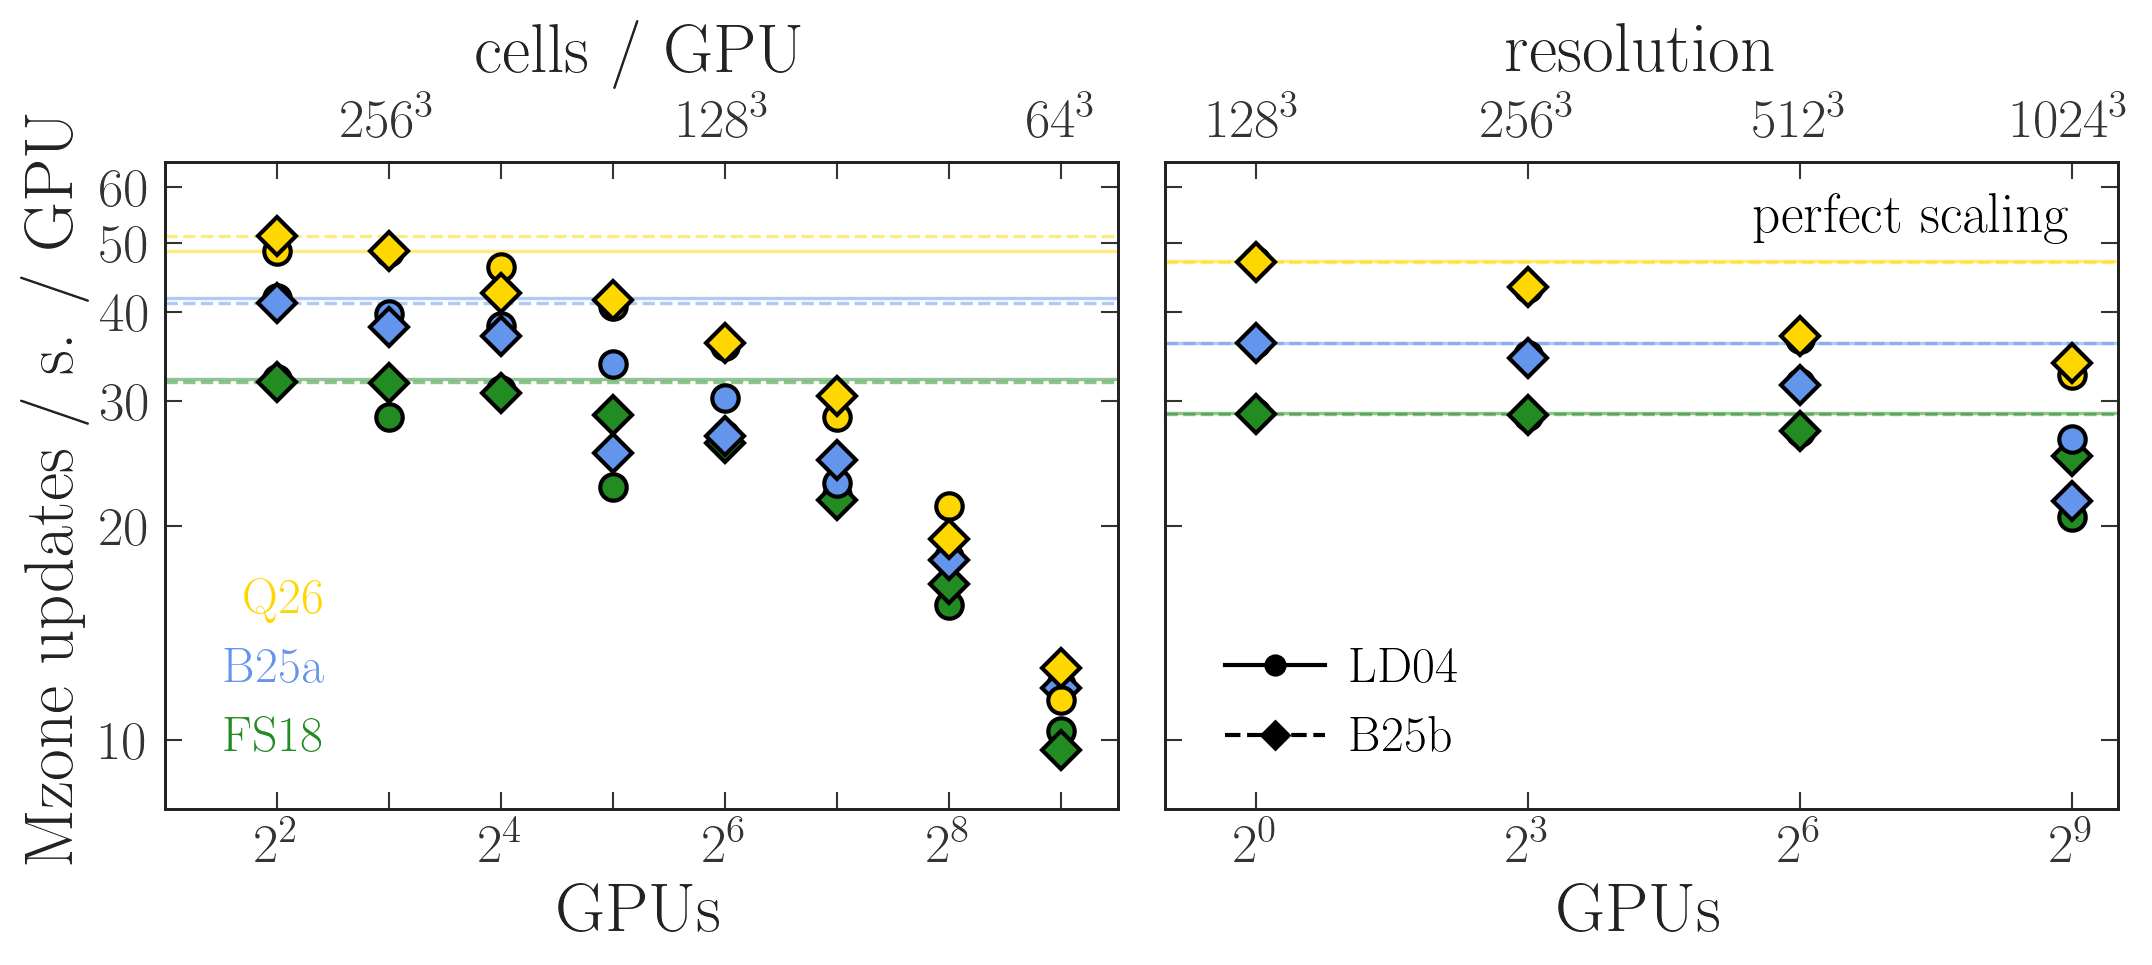
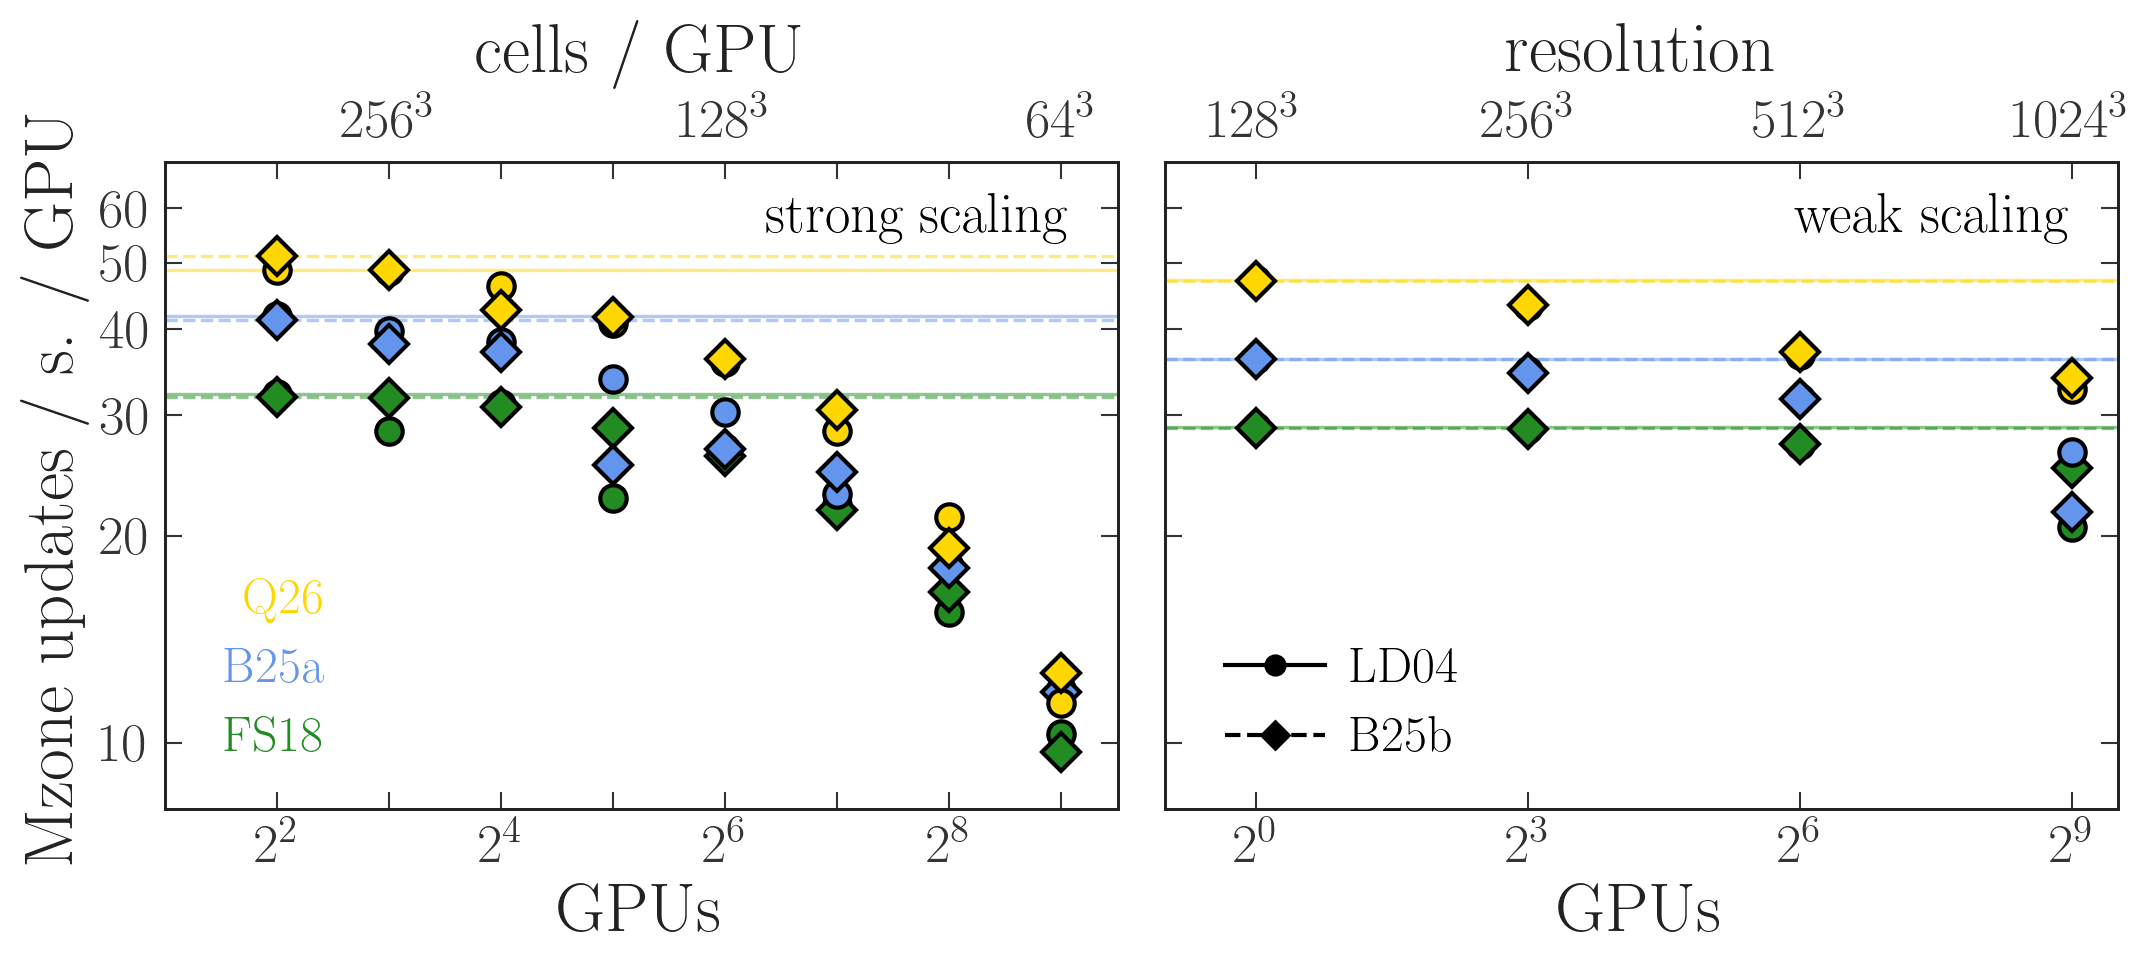
update-content(plot_gpu_scaling.py): label panels strong and weak scaling; regenerate figure.

diff --git a/scripts/performance/plot_gpu_scaling.py b/scripts/performance/plot_gpu_scaling.py
@@ -319,12 +319,21 @@ def main() -> None:
     )
     annotate_weak_scaling_axis(ax=weak_scaling_ax)
     add_emf_averaging_scheme_legend(ax=weak_scaling_ax)
-    strong_scaling_ax.set_ylim([8, 65])
+    strong_scaling_ax.set_ylim([8, 70])
+    annotate_axis.add_text(
+        ax = strong_scaling_ax,
+        x_pos = 0.95,
+        y_pos = 0.95,
+        label = "strong scaling",
+        x_alignment = box_positions.Positions.Side.Right,
+        y_alignment = box_positions.Positions.Side.Top,
+        text_size = 20,
+    )
     annotate_axis.add_text(
         ax = weak_scaling_ax,
         x_pos = 0.95,
         y_pos = 0.95,
-        label = "perfect scaling",
+        label = "weak scaling",
         x_alignment = box_positions.Positions.Side.Right,
         y_alignment = box_positions.Positions.Side.Top,
         text_size = 20,
